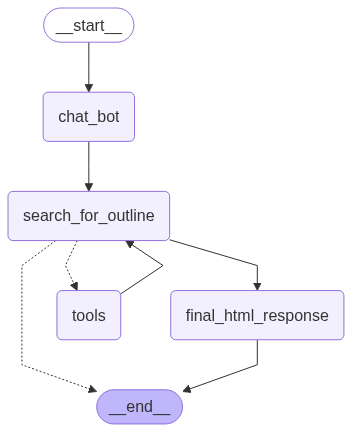
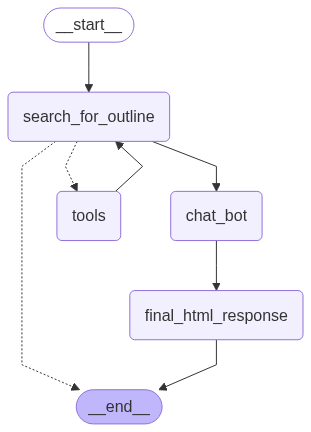
feat: outline->html

diff --git a/graph/graph.py b/graph/graph.py
@@ -6,8 +6,7 @@ from tools.search import get_search_tools
 from langgraph.prebuilt import ToolNode, tools_condition
 from langgraph.checkpoint.memory import InMemorySaver
 from configs.config import GOOGLE_API_KEY
-from langchain_core.messages import HumanMessage,SystemMessage
-from IPython.display import Image, display
+from langchain_core.messages import SystemMessage
 
 memory = InMemorySaver()
 
@@ -19,19 +18,32 @@ llm.bind_tools([get_search_tools()])
 
 
 def chat_bot(state: State):
+    print("Invoked chat bot")
     response = llm.invoke(state.messages)
     return {"messages": [response]}
 
 
 def search_for_outline(state:State):
+    print("Invoked search for outline")
     key_word = state.messages[1].content
-    state.messages.append(SystemMessage(content=f"Search for an outline and recent trends for {key_word}"))
+    messages = state.messages
+    messages.append(SystemMessage(content=f"Use the Search tool to find an outline and recent trends for {key_word}."))
+    state.messages = messages
+    print(f"Searching for outline for {state.messages[-1]}")
     response = llm.invoke(state.messages)
     state.messages.append(response)
     return {"messages": [response]}
 
 def final_html_response(state:State):
+    print("Invoked html response")
     state.messages.append(SystemMessage(content="Generate a final HTML response based on the search results and outline."))
+    response = llm.invoke(state.messages)
+    state.messages.append(response)
+    return {"messages": [response]}
+
+def attach_imgs_html(state:State):
+    print("Invoked attach images to html")
+    state.messages.append(SystemMessage(content="Attach images to the HTML response as needed, you can search for images and get back the proper urls then update the html content according to the new."))
     response = llm.invoke(state.messages)
     state.messages.append(response)
     return {"messages": [response]}
@@ -40,8 +52,9 @@ graph_builder = StateGraph(State)
 graph_builder.add_node("chat_bot",chat_bot)
 graph_builder.add_node("search_for_outline", search_for_outline)
 graph_builder.add_node("final_html_response", final_html_response)
-graph_builder.add_edge(START,"chat_bot")
-graph_builder.add_edge("chat_bot", "search_for_outline")
+# graph_builder.add_node("attach_imgs_html", attach_imgs_html)
+graph_builder.add_edge(START,"search_for_outline")
+graph_builder.add_edge("search_for_outline", "chat_bot")
 tool_node = ToolNode(tools=[get_search_tools()])
 
 graph_builder.add_node("tools", tool_node)
@@ -56,7 +69,7 @@ graph_builder.add_conditional_edges(
 # Any time a tool is called, we return to the chatbot to decide the next step
 graph_builder.add_edge("tools", "search_for_outline")
 
-graph_builder.add_edge("search_for_outline", "final_html_response")
+graph_builder.add_edge("chat_bot", "final_html_response")
 graph_builder.add_edge("final_html_response", END)
 compiled_graph = graph_builder.compile(checkpointer=memory)
 

diff --git a/main.py b/main.py
@@ -13,7 +13,6 @@ def invoke_endpoint(username: str, keyword: str):
 		State(messages=[SYSTEM_MESSAGE, HumanMessage(content=keyword)]),
 		config=MEMORY_CONFIG
 	)
-	print(response)
 	article = response["messages"][-1].content
 	article = article.replace("```html","").replace("```","")
 	return article
